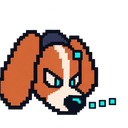
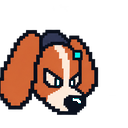
Scout: remove scent dots from sniffing sprite, rotate all head expressions

diff --git a/templates/scout.html b/templates/scout.html
@@ -102,7 +102,7 @@
 
     var FACES = {
       idle: ["/static/scout6.png"],
-      wide: ["/static/scout1.png", "/static/scout3.png", "/static/scout2.png"]
+      wide: ["/static/scout1.png", "/static/scout3.png", "/static/scout5.png", "/static/scout2.png"]
     };
     var faceSet = FACES.idle, faceI = 0, happyUntil = 0, lastCount = 0;
     function faceTick(){
